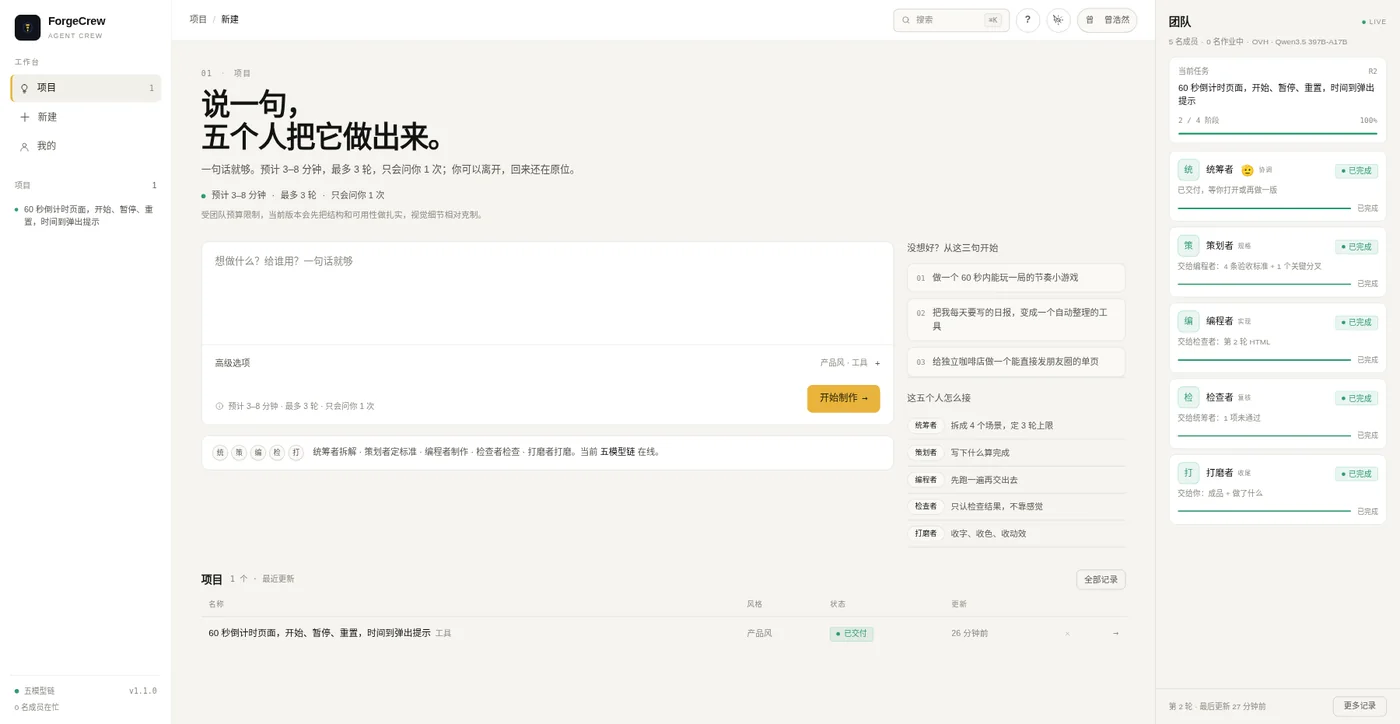
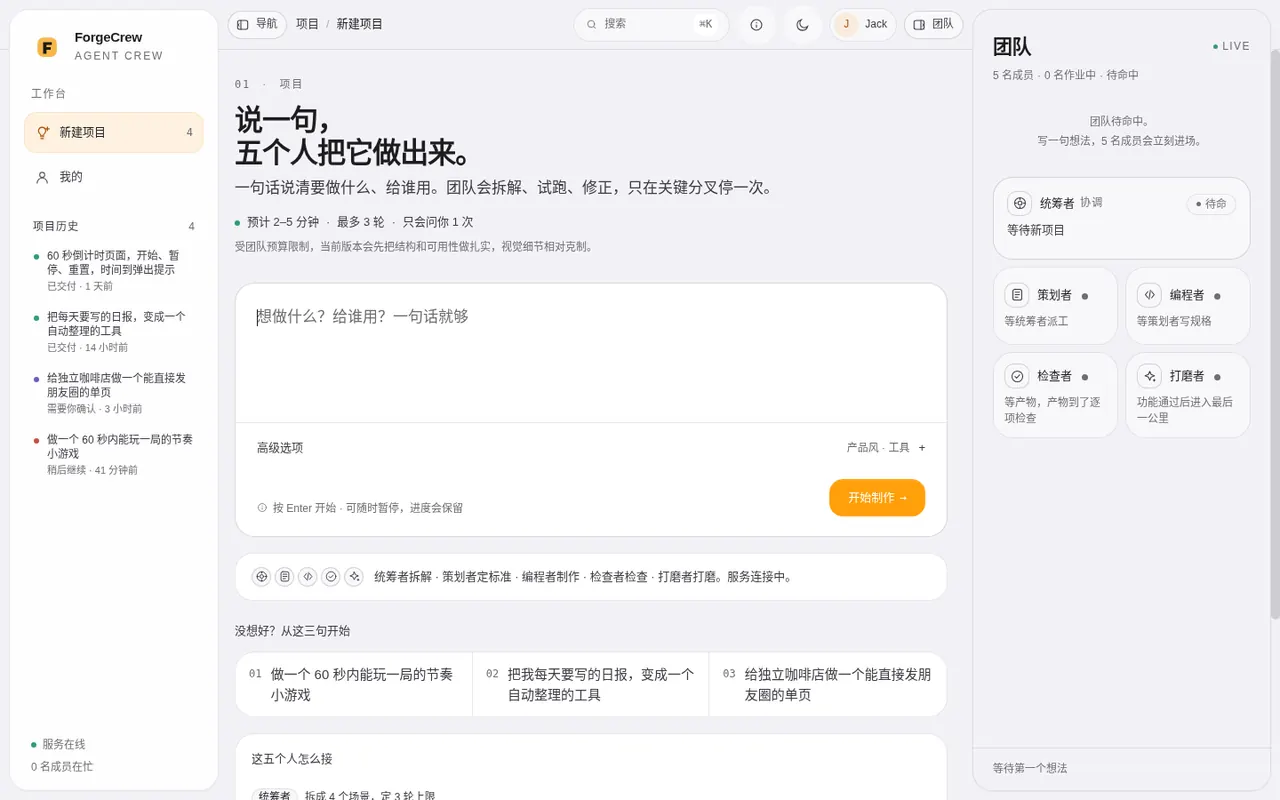
feat: move project history into rail, silent theme switch, sync guide

diff --git a/web/js/main.js b/web/js/main.js
@@ -227,6 +227,28 @@ function navCount(route) {
   return '';
 }
 
+function railHistoryHtml() {
+  const projects = (state.projects || []).slice();
+  if (!projects.length) {
+    return `<div class="rail-recent">
+      <div class="head"><b>项目历史</b><span>0</span></div>
+      <div class="rail-recent-empty">还没有项目。写一句想法，团队会把它做出来。</div>
+    </div>`;
+  }
+  const list = projects.map((item) => {
+    const tone = { DELIVERED: 'ok', AWAITING_USER: 'wait', BUILDING: 'run', REVIEWING: 'run', REWORKING: 'run', PAUSED: 'fail' }[item.status] || '';
+    const active = state.project && state.project.id === item.id;
+    return `<button class="item ${active ? 'active' : ''}" data-open="${esc(item.id)}" type="button" aria-current="${active ? 'page' : 'false'}">
+      <span class="bullet ${tone}"></span>
+      <span class="txt"><b>${esc(item.title)}</b><em>${badgeOf(item.status)} · ${rel(item.updatedAt)}</em></span>
+    </button>`;
+  }).join('');
+  return `<div class="rail-recent">
+    <div class="head"><b>项目历史</b><span>${projects.length}</span></div>
+    <div class="rail-recent-list">${list}</div>
+  </div>`;
+}
+
 function renderRail() {
   const p = state.project;
   const agents = deriveAgents(p);
@@ -244,6 +266,7 @@ function renderRail() {
         ${ICONS.profile}<span>我的</span>
       </button>
     </div>
+    ${railHistoryHtml()}
     <div class="rail-foot">
       <div class="row"><span class="dot ${agents.some((a) => ['working', 'thinking', 'reviewing'].includes(a.state)) ? 'run' : 'ok'}"></span>服务在线</div>
       <div class="row"><span>${workingCount(agents)} 名成员在忙</span></div>
@@ -448,26 +471,11 @@ function statusPillOf(item) {
 }
 
 function ideaHtml() {
-  const projects = recentItems();
   const p = state.project;
   const agents = deriveAgents(p);
   const online = state.heartbeat.ok !== false;
   const styleKey = state.style || 'product';
   const style = STYLES.find((x) => x.key === styleKey) || STYLES[2];
-  const rows = projects.map((item) => `
-    <tr data-open="${esc(item.id)}">
-      <td class="title">${esc(item.title)}<span class="tag">${esc(item.tag)}</span></td>
-      <td class="dim">${esc(item.styleLabel || STYLES.find((x) => x.key === item.style)?.label || '产品风')}</td>
-      <td>${statusPillOf(item)}</td>
-      <td class="dim">${rel(item.updatedAt)}</td>
-      <td class="go">→</td>
-    </tr>`).join('');
-  const mobileRows = projects.map((item) => `
-    <div class="recent-row" data-open="${esc(item.id)}" role="button" tabindex="0">
-      <div class="txt"><b>${esc(item.title)}</b><span>${statusPillOf(item)}<span>${roundLabel(item)}</span><span>${rel(item.updatedAt)}</span></span></div>
-      <span class="chev">›</span>
-    </div>`).join('');
-
   return `
   <div class="eyebrow">01 <i>·</i> 项目</div>
   <h1 class="page-title idea-title">说一句，<br>五个人把它做出来。</h1>
@@ -522,21 +530,7 @@ function ideaHtml() {
     </aside>
   </div>
 
-  <section class="section">
-    <div class="section-head">
-      <h2>项目</h2>
-      <span class="meta">${projects.length} 个 · 最近更新</span>
-      <span class="spacer"></span>
-      <button class="btn small" data-nav="profile" type="button">全部记录</button>
-    </div>
-    ${projects.length ? `
-      <table class="recent-table">
-        <thead><tr><th>名称</th><th>风格</th><th>状态</th><th>更新</th><th></th></tr></thead>
-        <tbody>${rows}</tbody>
-      </table>
-      <div class="recent-rows">${mobileRows}</div>
-    ` : `<div class="empty"><b>${COPY.emptyRecent}</b></div>`}
-  </section>`;
+`;
 }
 
 // view: build
@@ -1219,8 +1213,8 @@ function guideHtml() {
         <span class="guide-no">01</span>
         <div>
           <h3>写一句想法，选好风格就能开工</h3>
-          <p>在首页写清楚“做什么、给谁用、最想要的效果”。标签决定页面骨架，风格决定气质；高级选项可以补上不要什么、参考感觉。点“让团队开工”，五个角色开始接手。</p>
-          <figure><a href="/assets/guide/home.webp" target="_blank" rel="noreferrer"><img src="/assets/guide/home.webp" alt="首页新建项目界面" loading="lazy"></a><figcaption>首页：一句话 + 标签 + 风格，三步开工。</figcaption></figure>
+          <p>在首页写清楚“做什么、给谁用、最想要的效果”。标签决定页面骨架，风格决定气质；高级选项可以补上不要什么、参考感觉。点“让团队开工”，五个角色开始接手。以往项目固定在左侧“项目历史”里，点一下就能切回；手机上在“我的”页查看。</p>
+          <figure><a href="/assets/guide/home.webp" target="_blank" rel="noreferrer"><img src="/assets/guide/home.webp" alt="首页新建项目与左侧项目历史" loading="lazy"></a><figcaption>首页：只留新建入口，项目历史常驻左侧栏。</figcaption></figure>
         </div>
       </section>
       <section class="guide-step">
@@ -1264,9 +1258,9 @@ function guideHtml() {
       <section class="guide-step">
         <span class="guide-no">07</span>
         <div>
-          <h3>账号、外观和模型连接</h3>
-          <p>登录后项目跟着账号走。“我的”页可以切换跟随系统 / 深色 / 亮色，打开确认通知，查看今日调用。默认服务排队时，可以填入自己的 Qwen Key，只保存在这台浏览器，不进入账号同步。</p>
-          <figure><a href="/assets/guide/profile.webp" target="_blank" rel="noreferrer"><img src="/assets/guide/profile.webp" alt="我的页账号、外观与 Qwen 连接" loading="lazy"></a><figcaption>我的页：账号、外观、服务连接与历史。</figcaption></figure>
+          <h3>账号、外观和项目历史</h3>
+          <p>登录后项目跟着账号走。“我的”页可以切换跟随系统 / 深色 / 亮色，打开确认通知，查看今日调用；切换外观会立即生效，不再弹提示。项目历史在桌面左侧栏常驻，手机端在“我的”页查看，点条目就能切回。</p>
+          <figure><a href="/assets/guide/profile.webp" target="_blank" rel="noreferrer"><img src="/assets/guide/profile.webp" alt="我的页账号、外观与项目历史" loading="lazy"></a><figcaption>我的页：账号、外观、服务连接与项目历史。</figcaption></figure>
         </div>
       </section>
     </div>
@@ -1651,7 +1645,6 @@ document.addEventListener('click', (ev) => {
     setThemeUser(themeSet.dataset.themeSet);
     renderChrome();
     renderPage();
-    toast('外观已切换为' + ({ system: '跟随系统', dark: '深色', light: '亮色' }[themeSet.dataset.themeSet] || ''));
     return;
   }
 
@@ -1661,7 +1654,6 @@ document.addEventListener('click', (ev) => {
     setThemeUser(next);
     renderChrome();
     renderPage();
-    toast('外观：' + ({ light: '亮色', dark: '深色' }[next] || next));
     return;
   }
 
@@ -2255,7 +2247,6 @@ function runPaletteItem(item) {
     setThemeUser(next);
     renderChrome();
     renderPage();
-    toast('外观：' + ({ light: '亮色', dark: '深色' }[next] || next));
   } else if (item.id) {
     const full = safeReadProject(item.id);
     if (full) {

diff --git a/web/css/app.css b/web/css/app.css
@@ -178,27 +178,50 @@ input, textarea { font: inherit; color: inherit; }
   background: var(--accent);
 }
 
-.rail-recent { margin-top: 26px; padding: 0 6px; min-height: 0; }
+.rail-recent {
+  margin-top: 22px; padding: 0 2px; min-height: 0;
+  flex: 1 1 auto; display: flex; flex-direction: column;
+}
 .rail-recent .head {
   display: flex; align-items: center; justify-content: space-between;
-  font-size: 12px; color: var(--text-3); margin-bottom: 8px;
+  font-size: 12px; color: var(--text-3); margin-bottom: 6px; padding: 0 8px;
 }
-.rail-recent .head b { color: var(--text-2); font-weight: 400; }
+.rail-recent .head b { color: var(--text-2); font-weight: 400; letter-spacing: .08em; }
+.rail-recent-list {
+  min-height: 0; overflow-y: auto; display: flex; flex-direction: column; gap: 2px;
+  padding: 0 0 6px; scrollbar-width: thin; overscroll-behavior: contain;
+}
 .rail-recent .item {
-  display: flex; gap: 8px; align-items: flex-start;
-  padding: 7px 0; font-size: 12px; color: var(--text-2);
-  border: 0; width: 100%; text-align: left; line-height: 1.5;
+  display: flex; gap: 9px; align-items: flex-start;
+  padding: 8px 9px; font-size: 12px; color: var(--text-2);
+  border: 0; width: 100%; text-align: left; line-height: 1.45;
+  border-radius: 11px; background: transparent;
+  transition: background .15s ease, color .15s ease;
 }
-.rail-recent .item:hover { color: var(--text); }
+.rail-recent .item:hover { color: var(--text); background: var(--surface-2); }
+.rail-recent .item.active {
+  color: var(--text); background: var(--accent-soft);
+  box-shadow: inset 0 0 0 1px rgba(255,159,10,.12);
+}
 .rail-recent .item .bullet {
-  width: 5px; height: 5px; border-radius: 50%; margin-top: 6px; flex: 0 0 auto;
+  width: 6px; height: 6px; border-radius: 50%; margin-top: 6px; flex: 0 0 auto;
   background: var(--text-3);
 }
 .rail-recent .item .bullet.ok { background: var(--ok); }
 .rail-recent .item .bullet.wait { background: var(--violet); }
 .rail-recent .item .bullet.run { background: var(--accent); }
-.rail-recent .item span {
+.rail-recent .item .bullet.fail { background: var(--danger); }
+.rail-recent .item .txt { min-width: 0; display: flex; flex-direction: column; gap: 2px; }
+.rail-recent .item .txt b {
   display: -webkit-box; -webkit-line-clamp: 2; -webkit-box-orient: vertical; overflow: hidden;
+  font-weight: 500; color: inherit; font-size: 12px; line-height: 1.38;
+}
+.rail-recent .item .txt em {
+  font-style: normal; color: var(--text-3); font-size: 11px;
+  white-space: nowrap; overflow: hidden; text-overflow: ellipsis;
+}
+.rail-recent-empty {
+  padding: 10px 9px 4px; font-size: 12px; line-height: 1.6; color: var(--text-3);
 }
 .rail-foot { margin-top: auto; padding: 12px 6px 0; border-top: 1px solid var(--line); }
 .rail-foot .row { display: flex; align-items: center; gap: 7px; font-size: 12px; color: var(--text-3); }
@@ -1428,7 +1451,7 @@ body {
 .nav-item.active { border-left: 0; padding-left: 12px; background: var(--accent-soft); color: var(--text); box-shadow: inset 0 0 0 1px rgba(255,159,10,.14); }
 .nav-item.active svg { color: var(--accent-text); opacity: 1; }
 .nav-item svg { width: 17px; height: 17px; }
-.rail-recent { margin-top: 28px; }
+.rail-recent { margin-top: 24px; }
 .rail-foot { border-top-color: transparent; background: linear-gradient(to top, var(--surface-2), transparent); border-radius: 0 0 24px 24px; padding: 14px 8px 0; }
 
 .topbar {

diff --git a/web/index.html b/web/index.html
@@ -7,8 +7,8 @@
 <meta name="description" content="一句话说想法，五个人把它做出来；只在需要你决定时停一次。">
 <meta name="theme-color" content="#0A0A0B">
 <link rel="icon" href="./favicon.svg" type="image/svg+xml">
-<link rel="stylesheet" href="./tokens/motion.css?v=20261126s">
-<link rel="stylesheet" href="./css/app.css?v=20261126s">
+<link rel="stylesheet" href="./tokens/motion.css?v=20261126t">
+<link rel="stylesheet" href="./css/app.css?v=20261126t">
 <script>
   // 主题先于渲染，避免闪白
   (function () {
@@ -40,6 +40,6 @@
   <div id="overlay-root"></div>
   <div class="toasts" id="toast-root" aria-live="polite"></div>
   <div id="palette-root"></div>
-  <script type="module" src="./js/main.js?v=20261126s"></script>
+  <script type="module" src="./js/main.js?v=20261126t"></script>
 </body>
 </html>

diff --git a/web/js/config.js b/web/js/config.js
@@ -105,7 +105,7 @@ export const COPY = {
     idea: '一句话说清要做什么、给谁用。团队会拆解、试跑、修正，只在关键分叉停一次。',
     build: '',
     review: '一个项目一页到底：正在做、要不要你、成品都在这里。',
-    profile: '账号、外观与制作服务。项目跟着账号走，密钥不下发浏览器。',
+    profile: '账号、外观与项目历史。项目跟着账号走，桌面左侧栏常驻，手机在这里查看。',
   },
   placeholder: '想做什么？给谁用？一句话就够',
   dispatch: '开始制作',
